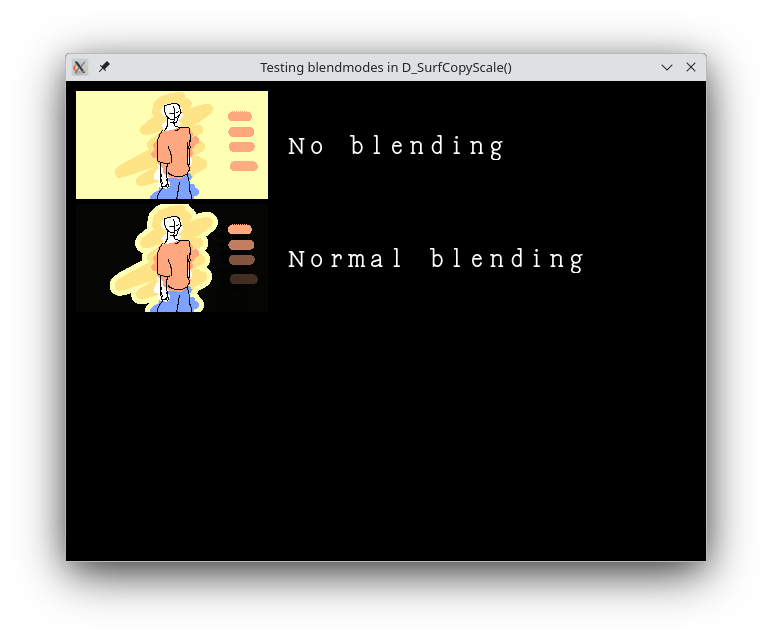
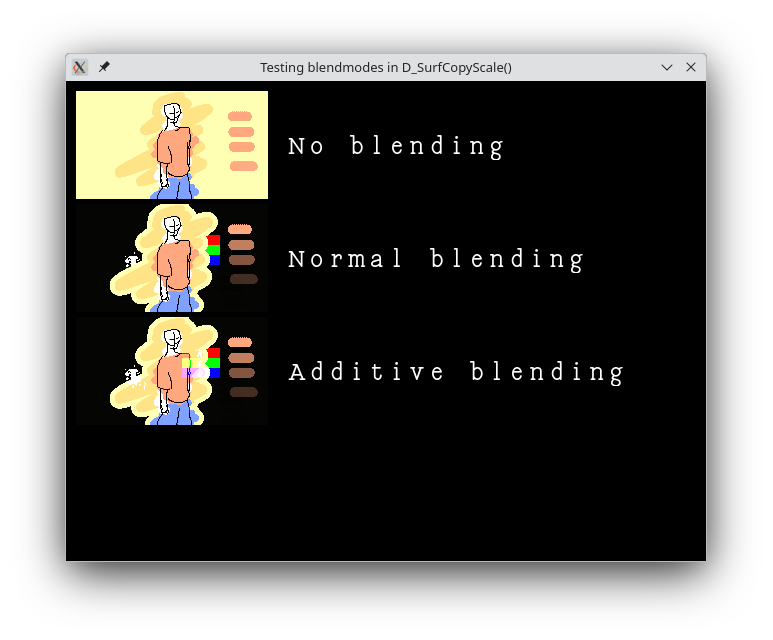
Updated README.txt with new additive blend mode and updated screenshot.

Changed region(s): [[0.1242, 0.4688, 0.3415, 0.6875], [0.3726, 0.5625, 0.8072, 0.5938], [0.2484, 0.375, 0.3105, 0.4062]]

diff --git a/README.md b/README.md
@@ -20,9 +20,9 @@ d.h is part of the drwslib core.
 
 This handles graphics. You can create and free surfaces, fill rectangles, scale copy part of one surface to part of another with scaling, use stb_image to load images.
 
-So far there are two blendmodes supported, here's a screenshot of them being tested.
+So far there are three blendmodes supported, here's a screenshot of them being tested.
 
-<img src="https://raw.githubusercontent.com/tallHouse64/drws-lib/refs/heads/main/surfcopyscale-blendmode-test-screenshot.png" alt="A screenshot showing the supported blendmodes so far, no blending and normal blending."/>
+<img src="https://raw.githubusercontent.com/tallHouse64/drws-lib/refs/heads/main/surfcopyscale-blendmode-test-screenshot.png" alt="A screenshot showing the supported blendmodes so far, no blending, normal blending and additive blending."/>
 
 You can use d.h by itself which you may want to do, it would mean you can't output to a display or take event input. It would mean the library only needs stdlib.h which you can turn off and redefine calloc and free.
 
